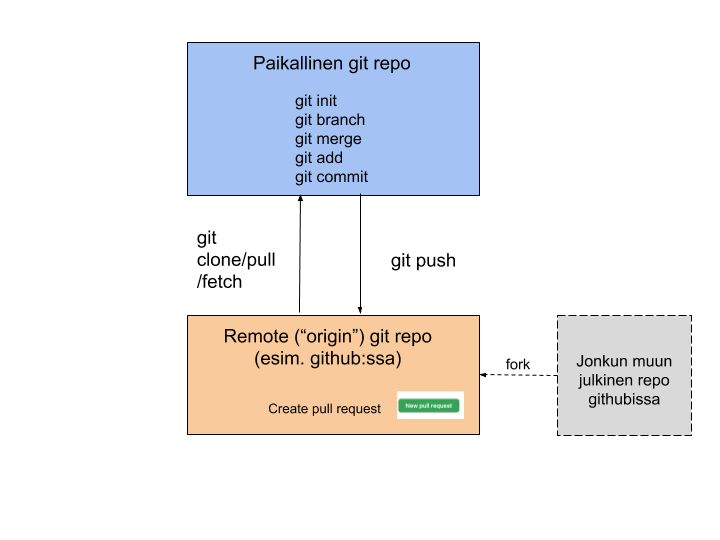
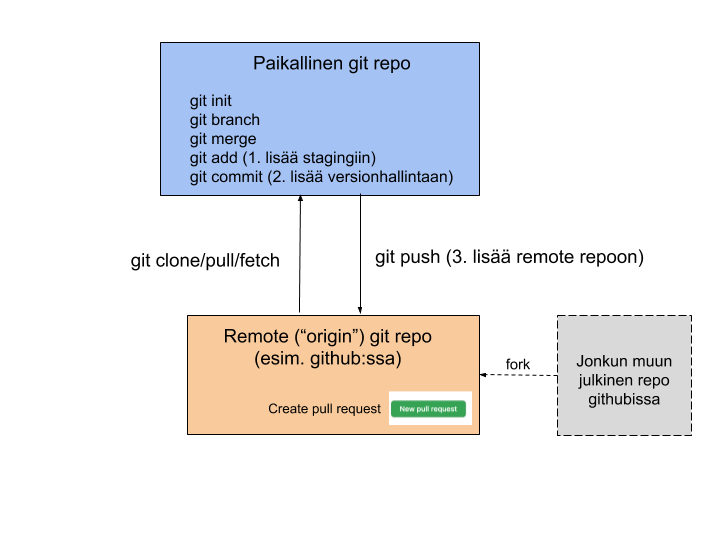
git commands

diff --git a/04_infra_ja_automaatio/README.md b/04_infra_ja_automaatio/README.md
@@ -202,11 +202,88 @@ Varsinkin kun ohjelmistoja kehitetään tiimeissä, on tärkeää hallita ohjelm
 
 [Git-sovellus](https://git-scm.com/) on noussut nykyisin ylivoimaisesti suosituimmaksi versionhallintasovellukseksi. Git:iä käytetään monesti yhdessä [Github-palvelun](https://github.com/) kanssa, joka mahdollistaa Git-versionhallintarepositoryjen tallentamisen julkiseen verkkoon ja tarjoaa lisäksi muita käteviä toimintoja, kuten [pull-requestit](https://yangsu.github.io/pull-request-tutorial/#:~:text=What%20is%20a%20Pull%20Request,follow%2Dup%20commits%20if%20necessary.).
 
-Erona ennen suositumpiin versionhallintajärjestelmiin (SVN ja CVS), git on [hajautettu versionhallintajärjestelmä](https://fi.wikipedia.org/wiki/Hajautettu_versionhallintaj%C3%A4rjestelm%C3%A4). Tämä siis tarkoittaa sitä, että jokaisella käyttäjällä on oma paikallinen "kopio", eli repository sovelluksen versionhallinnasta. Tässä omassa repositoryssä käyttäjällä on täydet oikeudet tehdä muutoksia ja hallita omaa versiohistoriaansa. Paikallisen repositoryn lisäksi yleensä käytössä on myös ns. upstream-repository (hostattuna esimerkiksi juuri githubissa), johon käyttäjä voi yrittää tarjota omia paikallisia muutoksiaan tai hakea sieltä muiden tekemiä muutoksia.
+Erona ennen suositumpiin versionhallintajärjestelmiin (SVN ja CVS), git on [hajautettu versionhallintajärjestelmä](https://fi.wikipedia.org/wiki/Hajautettu_versionhallintaj%C3%A4rjestelm%C3%A4). Tämä siis tarkoittaa sitä, että jokaisella käyttäjällä on oma paikallinen "kopio", eli repository sovelluksen versionhallinnasta. Tässä omassa repositoryssä käyttäjällä on täydet oikeudet tehdä muutoksia ja hallita omaa versiohistoriaansa. Paikallisen repositoryn lisäksi yleensä käytössä on myös ns. upstream-repository (hostattuna esimerkiksi juuri githubissa), johon käyttäjä voi yrittää tarjota omia paikallisia muutoksiaan tai hakea sieltä muiden tekemiä muutoksia. Gitin ydinajatukseen kuuluu versionhallinnan kolme "tasoa": 
+1. lokaalien muutosten taso
+1. stagingtaso (git add) 
+1. varsinainen versionhallinta (git commit)
+1. (lisäksi vielä mahdollinen upstream-repon taso) (git push).
+
+Esimerkiksi siis muutosten peruuttaminen (undo) tapahtuu eri tavalla riippuen missä tasolla muutokset ovat.
 
 ![Git ja Github](img/git_ja_github.png)
 
-[Git-sovelluksen omassa dokumentaatiossa](https://git-scm.com/) kehutaan sen olevan helppokäyttöinen. Rehellisyyden nimissä on kuitenkin sanottava, että varsinkin kun Gittiä käytetään yhdessä remote-repositoryjen kanssa, niin koko paletti on vähintäänkin vaikea, jos ei suorastaan monimutkainen. Gitin monipuoliseen ja tehokkaaseen käyttöön liittyy paljon käsitteitä periaatteita, joiden ymmärtämiseen menee aikaa. Gitin peruskäyttö on kuitenkin melko suoraviivaista.
+[Git-sovelluksen omassa dokumentaatiossa](https://git-scm.com/) kehutaan sen olevan helppokäyttöinen. Rehellisyyden nimissä on kuitenkin sanottava, että varsinkin kun Gittiä käytetään yhdessä remote-repositoryjen kanssa, niin koko paletti on vähintäänkin vaikea, jos ei suorastaan monimutkainen. Gitissä on lukemattomia komentoja ja saman asian voi monesti tehdä usealla eri komennolla. Gitin monipuoliseen ja tehokkaaseen käyttöön liittyy paljon käsitteitä periaatteita, joiden ymmärtämiseen menee aikaa. Gitin peruskäyttö on kuitenkin melko suoraviivaista.
+
+Esimerkiksi Atlassian-ohjelmistoyhtiö on tehnyt gitin käytöstä [melko hyvän tutoriaalin](https://www.atlassian.com/git/tutorials/setting-up-a-repository) johon voi tutustua (käytettynä yhdessä heidän githubia vastaavan bitbucket-palvelunsa kanssa). Käydään tässä myös läpi Gitin peruskäytössä ohjelmoijalle oleellisimpia ydintoimintoja.
+
+```shell
+#luodaan paikallinen git-repository kansiosta, jossa nyt olemme
+$ git init 
+
+#Lisätään tiedosto staging tasolle lokaalisti
+$ git add README.md
+
+#Lisätään .-asteriksilla kaikki muuttuneet tiedostot tämän kansion alta staging tasolle.
+$ git add .
+
+#Lisätään kaikki staging tason muutokset lokaaliin versionhallintaan.
+$ git commit -m "initial commit"
+
+# Liitetään paikalliselle repositorylle upstream repo githubissa (tyhjä upstream-repo on luotu ensin githubissa)
+git remote add origin https://github.com/YOUR-USERNAME/YOUR-REPOSITORY.git
+
+#Lisätään kaikki paikalliset versionhallinan muutokset remote-repositoryn (eli origin) master-haaraan (branch)
+$ git push origin master
+$ git push #oletuksena tämänhetkinen paikallinen haara pusketaan originin samaan haaraan, eli ei välttämättä tarvitse erikseen mainita origin master.
+
+#Ladataan jokin repository githubista omalle koneelle, jos ei siis itse perusteta uutta projektia git init:llä.
+$ git clone https://github.com/user/repo.git
+
+#Päivitään kaikki upstream-repon muiden tekemät muutokset itselle nykyisessä haarassa (esim. master).
+#Git pyrkii tekemään ns. fast-forward automergen, mutta mikäli se ei onnistu tässä, niin git tekee omien ja muiden muutosten yhdistämisestä uuden commit:in versionhallintaan (ja kenties pyytää tekemään tiedostojen manuaalista yhdistämistä ensin). Merge-commit pitää sitten myös pushata upstream-repoon.
+$ git pull
+#git pull on sama kuin: 
+$ git fetch #haetaan muutokset
+$ git merge #tehdään yhdistäminen paikallisiin muutoksiin
+#rebase-vivulla käytettynä git pull ottaa remote-repositoryn viimeisimmät muutokset ja lisää lokaalit muutokset niiden "perään" versiohistoriassa. Eli toisin sanoen lokaalit muutokset "rebasetaan" (ja mergataan) uudestaan remote repositoryn masterin viimeisimmästä tilanteesta, eikä siitä tilanteesta jolloin lokaalit muutokset ja remote-repon tiet alunperin erosivat, tällöin ei synny myöskään uutta merge-committia. Rebase:n etuna on versihistorian pysyminen siistinä ja lineaarisena, mutta sen käyttäminen voi alkuun olla vähän outoa. Tästä hieman sekavasta asiasta voi lukea lisää esim täältä: https://www.atlassian.com/git/tutorials/merging-vs-rebasing
+$ git pull --rebase
+
+
+#Luo uusi lokaali haara (branch) ja siirry sinne 
+$ git checkout -b uusihaara
+#myös tämä komentosarja tekee saman asian
+$ git branch uusihaara
+$ git checkout uusihaara
+#Kun olet tehnyt muutoksia omassa haarassasi ja haluat yhdistää muutokset esim master-haaraan, niin
+$ git checkout master #siirry master haaraan
+$ git merge uusihaara #yhdistä muutokset uudesta haarasta masteriin
+$ git branch -d uusihaara #poista uusihaara
+
+#Katso mitä lokaaleja muutoksia olet tehnyt
+$ git status
+#Katsele riveittäin tekemiäsi lokaaleja muutoksia 
+$ git diff #voit myös antaa paramterina tarkemman tiedostonimen
+
+# Tuhoa lokaalit muutoksesi
+$ git checkout . #checkout-komentoa voi käyttää näinkin..
+# Tai
+$ git restore muutettu_tiedosto.txt
+# Jos olet jo lisännyt muutokset staginigiin git add:llä, niin sitten tuhoamiseen pitää käyttää git reset komentoa.
+
+#Jos haluat hetkeksi laittaa lokaalit muutoksesi syrjään ja palata niihin myöhemmin.
+$ git stash #muutoksesi menevät stashiin ja working directorysi on tyhjä
+#...tee mitä haluat... ja sitten kun haluat taas ottaa muutoksesi takaisin stashista
+$ git stash apply
+
+#Tulosta versiohallinan commit-logi ja eri commitien hash-numerot siististi.
+$ git log --oneline
+
+#Älä kokeile tätä kotona! Jos on jostain syystä ihan pakko, niin voit siirtää ensin lokaalin repositorysi tiettyyn committiin ja sitten pakottaa myös upstream-repositoryn HEAD:in osoittamaan siihen. Tämä tuhoaa mahdollisesti versiohistoriaa ja saattaa muutenkin sekoittaa asioita entisestään.
+git reset --hard 8c4c448 #haluamasi commitin hash-numero
+git push --force origin master
+
+```
+
 
 ## Paketinhallinta ja buildaaminen
 
